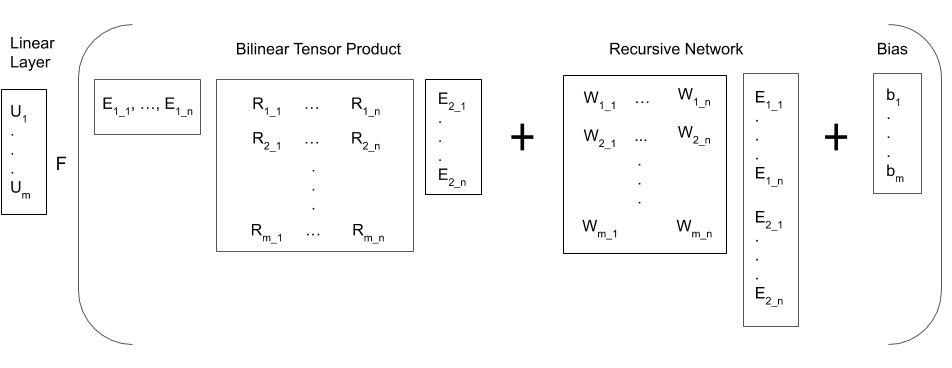
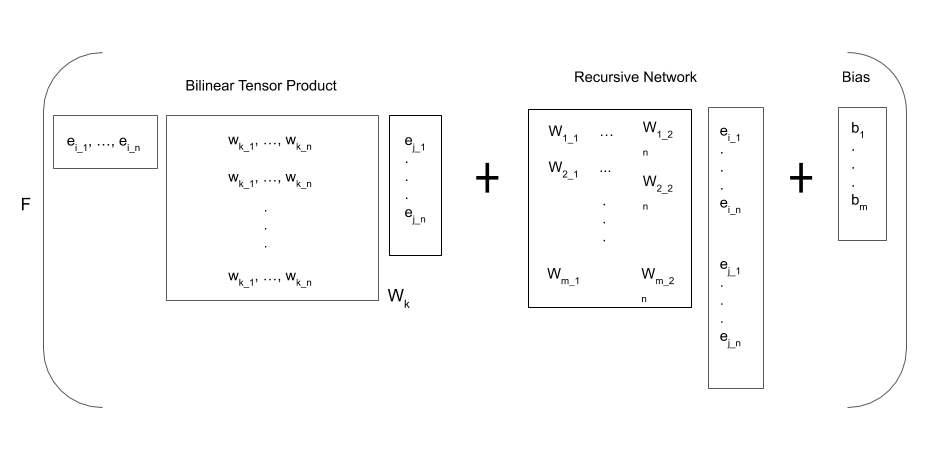
Chapter3 - Review comments 2 - Section3.1
Iterate NTN model partII.

diff --git a/Chapter3/chapter3.tex b/Chapter3/chapter3.tex
@@ -59,27 +59,37 @@ Nickel et al. \unskip ~\citep{nickel2011three} introduced the bilinear tensor pr
 
 \subsection{Recursive neural tensor factorisation}
 
-Chen et al.  \unskip ~\citep{socher2013reasoning} introduce nonlinear tensor factorisation by adding recursive entity representations in the composition of the relational score. Recursive networks (RCNs) try to capture the rules for word combinations by constructing a composition tree between two words, in a sequence of words \unskip ~\citep{socher2012semantic}. The NTN model tries to take advantage of these compositional rules by adding them to the bilinear tensor product, illustrated in Figure 3.2, and is defined as follows:
+Chen et al.  \unskip ~\citep{socher2013reasoning} introduce nonlinear tensor factorisation by adding recursive entity representations in the composition of the relational score. Recursive networks (RCNs) try to capture the rules for word combinations by constructing a composition tree between words, in a sequence of words \unskip ~\citep{socher2012semantic}, illustrated in figure 3.2. \par
+
+\begin{figure}[H]
+   	\centering
+    	\includegraphics[width=0.6\textwidth, height=0.3\textwidth]{recursive_network.png}
+	\captionsetup{justification=centering}
+	\caption{Recursive network which constructs a composition tree between inputs. It begins with a full tree and is pruned during training to obtain the optimal structure.}
+\end{figure}
+
+\noindent The NTN model tries to take advantage of these compositional rules by adding them to the bilinear tensor product, illustrated in Figure 3.3, and is defined as follows:
 \begin{equation}
 	g_{i,k,j} =  u_k^Tf(e_i^TW_k^{\left [1:m \right ]} e_j + V_k \left [ \begin{matrix} e_i \\ e_j \end{matrix} \right ] + b_k)
 \end{equation}
 
-\noindent where $ g_{i,k,j} $ is the relational score, $ u_k^T $ is the vector of scores indexed by relation $ k $, and $ f $ is the hyperbolic tangent function. $ e_i^TW_k^{\left [1:m \right ]} e_j $ is the bilinear tensor product between subject vector $ e_i^T \in \mathbb{R}^{1 \times n} $ and object vector $ e_j \in \mathbb{R}^{n \times 1} $, computed for relations $ W_k \in \mathbb{R}^{n \times n} $, where $ k \in \{1 \dots \; m \} $. $ \; V_k \left [ \begin{matrix} e_i \\ e_j \end{matrix} \right ] $ is the recursive entity composition, where the matrix-vector product is taken between matrix $ V_k \in \mathbb{R}^{k \times 2n} $ and the concatenation of the subject and object vectors, where a row of matrix $ V_k $ corresponds to relation $ k $. $ b_k $ is the bias vector. \par
+\noindent where $ g_{i,k,j} $ is the relational score tensor, $ u_k^T $ is the vector of scores indexed by relation $ k $, and $ f $ is the hyperbolic tangent function. $ e_i^TW_k^{\left [1:m \right ]} e_j $ is the bilinear tensor product between subject vector $ e_i^T \in \mathbb{R}^{1 \times n} $ and object vector $ e_j \in \mathbb{R}^{n \times 1} $, computed for relations $ W_k \in \mathbb{R}^{n \times n} $, where $ k \in \{1 \dots \; m \} $, and $ b_k $ is the bias. $ \; V_k \left [ \begin{matrix} e_i \\ e_j \end{matrix} \right ] $ is the recursive entity composition, where $ V_k \in \mathbb{R}^{k \times 2n} $ is a matrix of trainable parameters, and the matrix-vector product is taken between $ V_k $ and the concatenation of the subject and object vectors. A row of matrix $ V_k $ corresponds to relation $ k $. \par
 
 \begin{figure}[H]
    	\centering
     	\includegraphics[width=0.7\textwidth, height=0.3\textwidth]{recursive_neural_tensor_network.png}
-	\caption{Recursive neural tensor network.}
+	\captionsetup{justification=centering}
+	\caption{Recursive neural tensor network. This model computes the bilinear tensor product, and adds it to a recursive composition of entities and a bias to compute a relational score between the entities. The final result is squashed using a hyperbolic tangent function.}
 \end{figure}
 
-\noindent The contrastive max-margin objective is minimised during training. This objective computes a confidence magnitude on a true correct sample (a fact present in the KB), and a confidence magnitude on a corrupt sample (a randomly generated fact not present in the KB). The correct and corrupt samples are used by the objective as follows:
+\noindent The contrastive max-margin loss is minimised during training. This loss computes a confidence magnitude on a correct sample (a fact present in the KG), and a confidence magnitude on a corrupt sample (a randomly generated fact not present in the KG). The correct and corrupt samples are used by the loss function as follows:
 \begin{equation}
 	J(\si{\ohm}) =  \sum_{i=1}^N \sum_{c=1}^C \max(0,1 - g(T^{(i)}) + g(T_c^{(i)})) + \lambda \left \lVert \si{\ohm} \right \rVert_2^2
 \end{equation}
 
-\noindent where $J$ is the loss value, $\si{\ohm}$ are the model trainable parameters $u, W, V, b $, and $ E $. $N$ is the number of training triplets, $C$ is the number of randomly corrupted facts. $ g(T^{(i)}) $ is the confidence in the true fact computed by the model, and $ g(T_c^{(i)}) $ is the confidence in the corrupt fact computed by the model. Finally $\lambda\left\lVert \si{\ohm} \right\rVert_2^2$ is the ridge ($L_2$) regression regulariser. \par
+\noindent where $J$ is the loss value, $\si{\ohm}$ contains the trainable parameters $u, W, V, b $, and $ E $. $N$ is the number of training sample triplets, and $ C $ is the number of randomly corrupted facts. $ g(T^{(i)}) $ is the confidence in the true fact computed by the model, and $ g(T_c^{(i)}) $ is the confidence in the corrupt fact computed by the model. Finally $\lambda\left\lVert \si{\ohm} \right\rVert_2^2$ is the ridge ($L_2$) regression regulariser. \par
 
-\noindent The NTN model training algorithm also makes use of pre-trained word vectors developed by Turian et al. \unskip ~\citep{turian2010word}. These are 100-dimensional embeddings, which are aggregated from the set of words that represent an entity. For example for the entity \textit{homo sapiens}, the resulting word representation is $V_{homo \; sapiens} = 0.5(V_{homo} + V_{sapiens})$. These word vectors are trainable, and updated using backpropagation, to produce a distributed word representation that aligns with the KB. \par
+\noindent The NTN model training algorithm also makes use of pre-trained word vectors, from a language model by Turian et al. \unskip ~\citep{turian2010word}, to initialise entity embeddings. These are 100-dimensional vectors, which are aggregated from the set of words that represent an entity. For example for the entity \textit{homo sapiens}, the resulting entity embedding is $V_{homo \; sapiens} = 0.5(V_{homo} + V_{sapiens})$. These entity embeddings are trainable, and updated using backpropagation to generate a distributed representation of words that aligns with the KG of the particular application. \par
 
 \noindent \textbf{Modern optimisation.} Deep model training can suffer from noisy gradient signals when using stochastic gradient descent, mini batch optimisation and regularisation techniques such as dropout. Deep models can also suffer from insufficient signal to update parameters, a problem known as sparse gradients. Adaptive moment estimation (Adam) is a first order gradient-based stochastic optimisation algorithm that compensates for this noise \unskip ~\citep{kingma2014adam}. It computes the adaptive learning rates for parameters using the first and second order moments of the gradient, combining the advantages of AdaGrad ~\citep{duchi2011adaptive} and RMSprop ~\citep{tieleman2012lecture}. Adam efficiently regulates the size of parameter updates, accelerating toward local optima and remaining small in regions with a small gradient signal, sparse regions. \par
 

diff --git a/Chapter1/chapter1.tex b/Chapter1/chapter1.tex
@@ -135,7 +135,7 @@ Tensor factorisation is the most common approach for latent feature modelling ba
 	S_k \approx ER_kE^T
 \end{equation}
 
-\noindent Entity matrix $ E $ is composed of entity vectors $ e_i \in \mathbb{R}^{1 \times r} $, and relational tensor $ R_k $ is composed of full rank matrix slices $ W_k \in \mathbb{R}^{r \times r} $ \unskip~\citep{nickel2012factorizing}, where $ k \in \{1 \; \dots \; m \} $ is the set of KG relations.\ The vector-matrix product between entity $ e_i $ and relational matrix $ W_k $, generates an entity-relational vector. The inner product between it and entity vector $ e_j \in \mathbb{R}^{r \times 1} $ generates a relational score $ s_{i,k,j} $, see Figure 1.5. 
+\noindent Entity matrix $ E $ is composed of entity vectors $ e_i \in \mathbb{R}^{1 \times r} $, and relational tensor $ R_k $ is composed of full rank matrix slices $ W_k \in \mathbb{R}^{r \times r} $ \unskip~\citep{nickel2012factorizing}, where $ k \in \{1 \; \dots \; m \} $ is the set of KG relations.\ The vector-matrix product between entity $ e_i $ and relational matrix $ W_k $, generates an entity-relational vector $ h_{i,k} \in \mathbb{R}^{1 \times r} $. The inner product between $ h_{i,k} $ and entity vector $ e_j \in \mathbb{R}^{r \times 1} $ generates a relational score $ s_{i,k,j} $, see Figure 1.5. 
 
 \begin{figure}[H]
    	\centering
